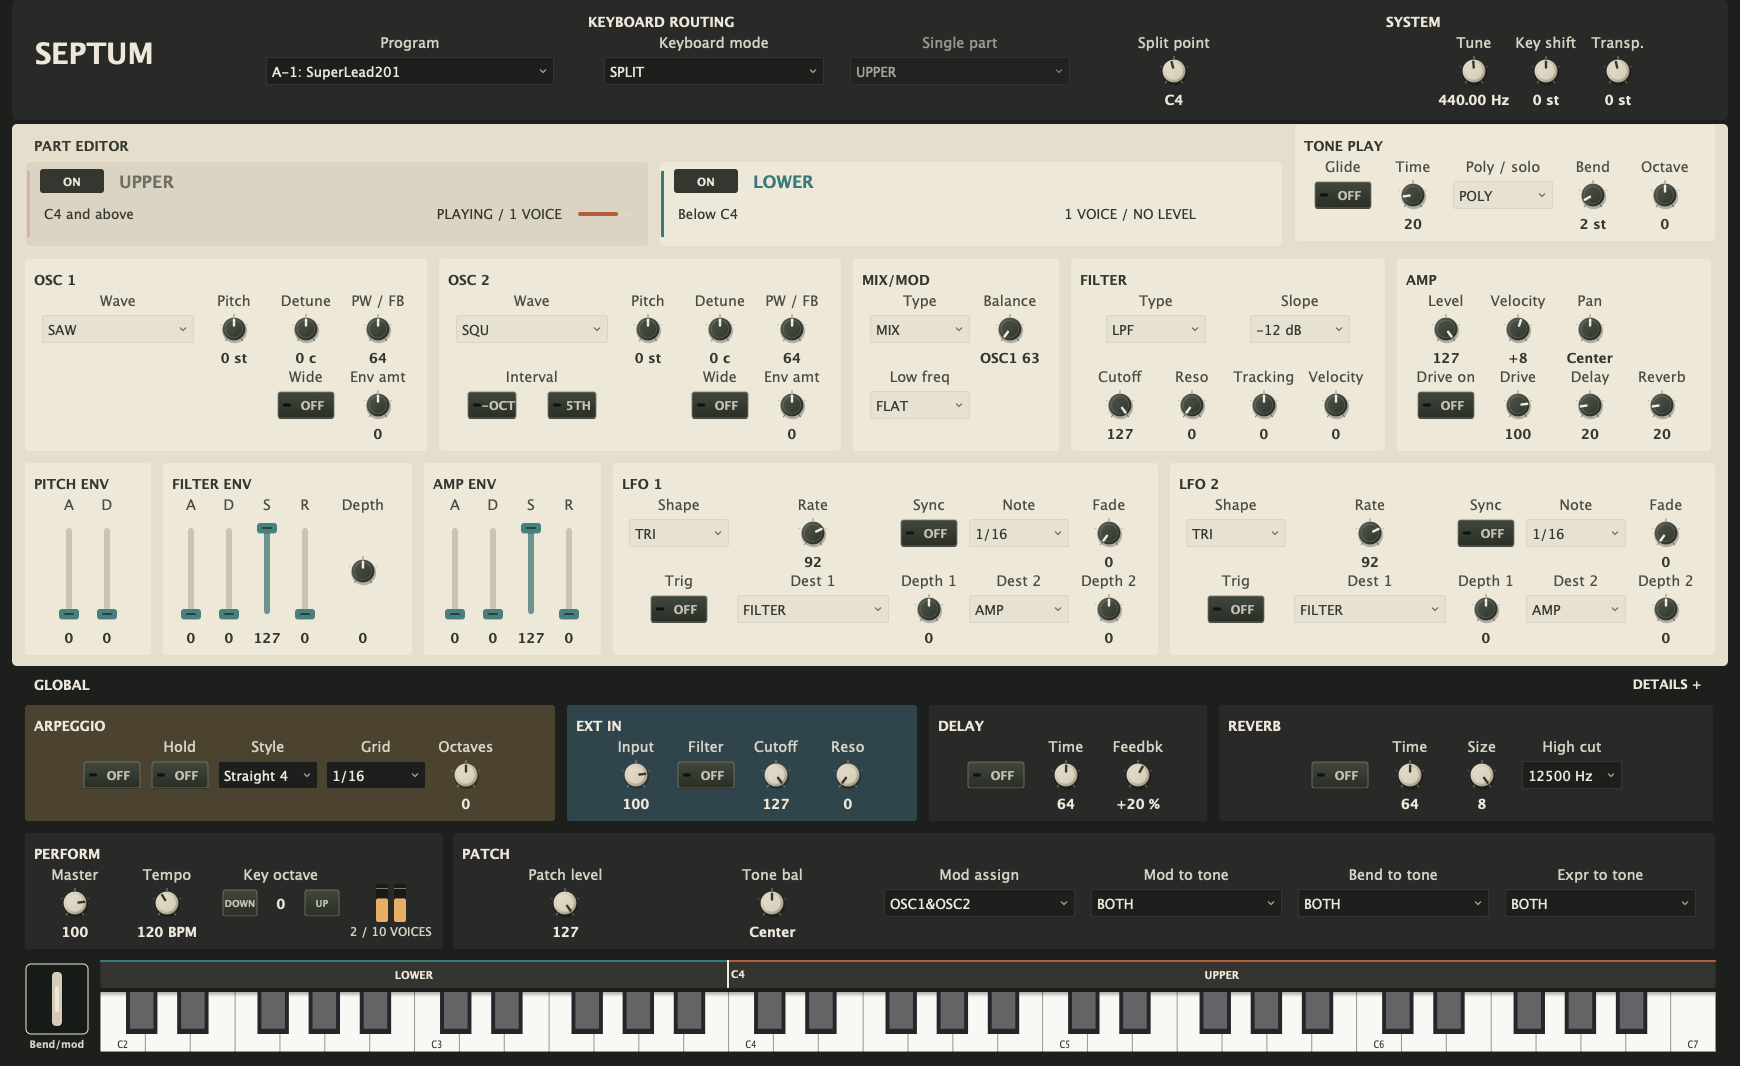
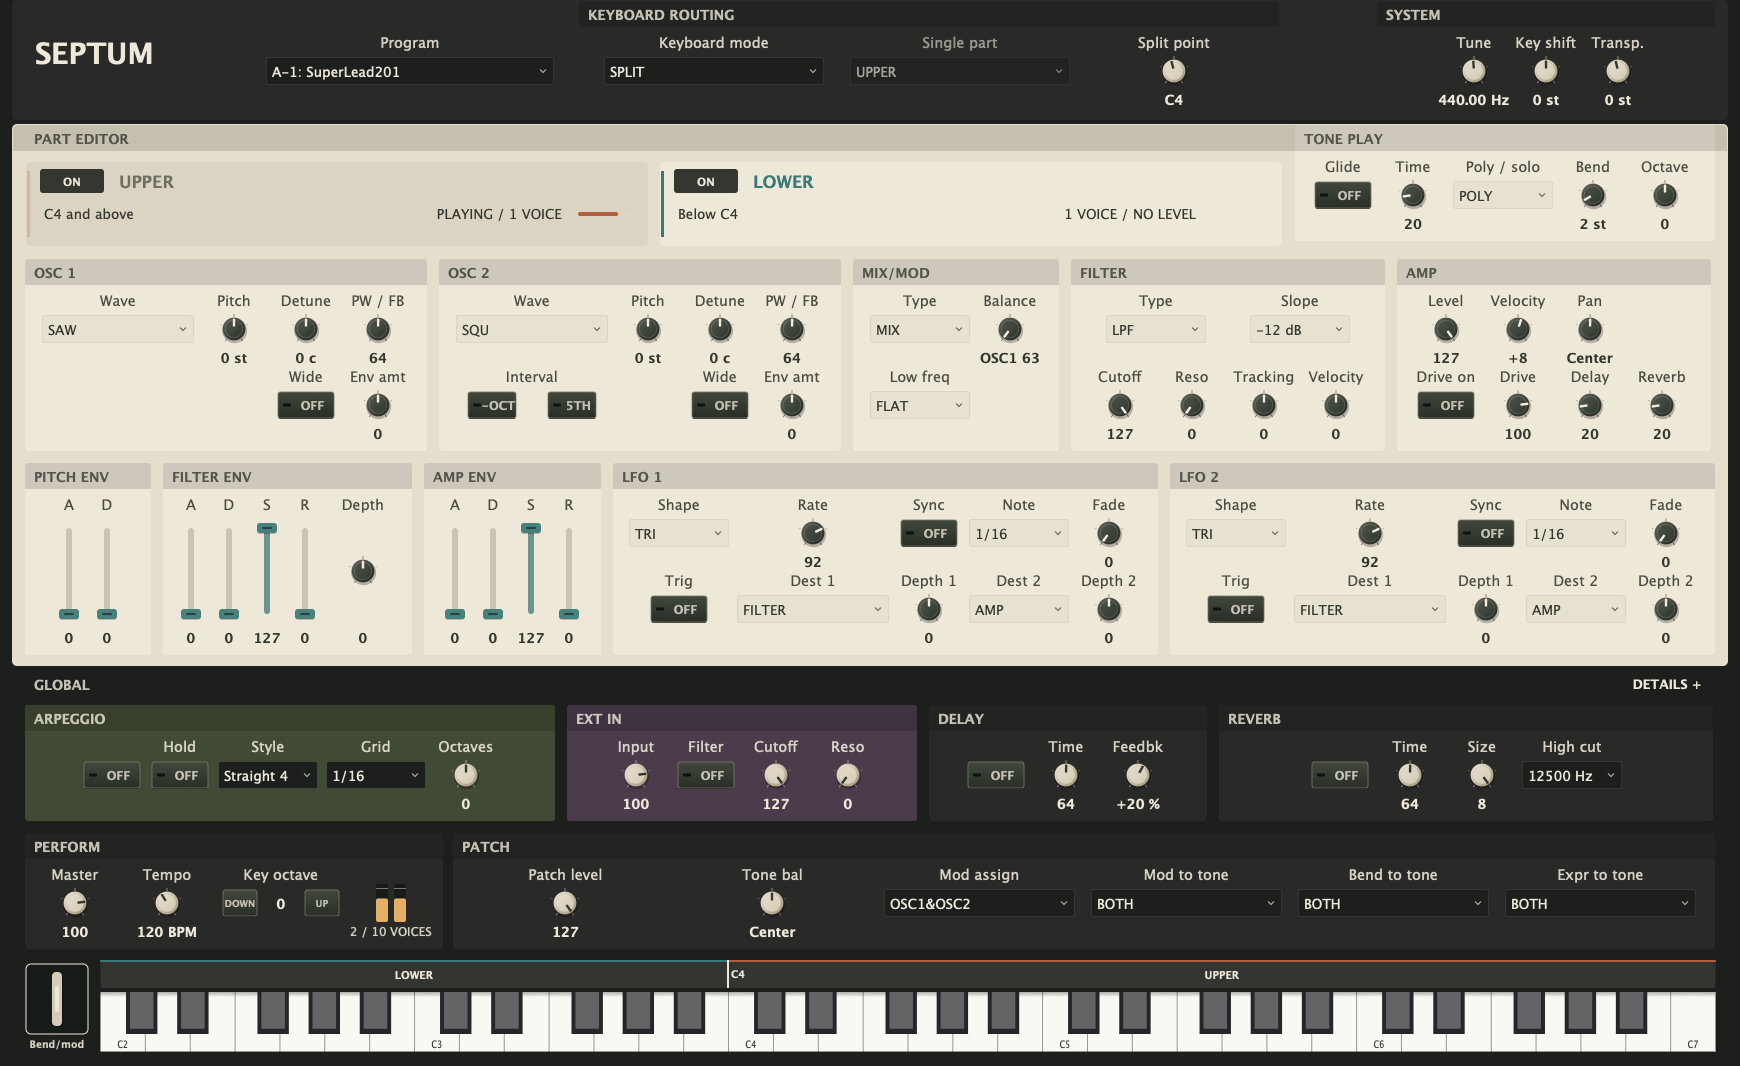
style(ui): refine panel headers and shared colors

diff --git a/Source/PluginEditor.cpp b/Source/PluginEditor.cpp
@@ -13,8 +13,8 @@ namespace colours
     const juce::Colour ink { 0xff34372f };
     const juce::Colour paper { 0xffe5decc };      // aged ivory faceplate
     const juce::Colour paperWell { 0xffeee8d9 };
-    const juce::Colour arpeggio { 0xff4b422f };     // muted ochre
-    const juce::Colour external { 0xff30454b };     // slate blue
+    const juce::Colour arpeggio { 0xff414a34 };     // olive, distinct from Upper's terracotta
+    const juce::Colour external { 0xff4b3c4c };     // plum, distinct from Lower's teal
     const juce::Colour accent { 0xffb35d3d };
     const juce::Colour knobFace { 0xffd5cbb6 };
     const juce::Colour knobPointer { 0xfff3eddf };
@@ -46,6 +46,7 @@ constexpr int toggleHeight = 28;
 
 constexpr int sectionTitleHeight = 22;
 constexpr int sectionPadding = 10;
+constexpr int panelTitleBarHeight = 26;
 constexpr int gridRowHeight = 76;      // label + control + value
 constexpr int sectionGap = 10;
 
@@ -81,6 +82,22 @@ void layoutControlCell (juce::Component& component, juce::Label& caption,
     if (value != nullptr)
         value->setBounds (valueBounds);
     component.setBounds (cell.withSizeKeepingCentre (width, height));
+}
+
+void paintPanelTitle (juce::Graphics& g, juce::Rectangle<int> bounds,
+                      juce::Colour surface, juce::Colour ink,
+                      const juce::String& title, int inset = sectionPadding,
+                      float cornerRadius = 3.0f)
+{
+    const auto bar = bounds.toFloat().reduced (1.0f).withHeight ((float) panelTitleBarHeight);
+    g.setColour (surface.darker (0.16f));
+    g.fillRoundedRectangle (bar, cornerRadius);
+    // Keep the upper panel corners rounded and the lower edge straight.
+    g.fillRect (bar.withTrimmedTop (cornerRadius));
+    g.setColour (ink.withAlpha (0.8f));
+    g.setFont (juce::Font (juce::FontOptions (16.0f, juce::Font::bold)));
+    g.drawText (title, bounds.withY ((int) bar.getY()).withHeight (panelTitleBarHeight)
+                            .reduced (inset, 0), juce::Justification::centredLeft);
 }
 } // namespace
 
@@ -1878,10 +1895,9 @@ void SeptumAudioProcessorEditor::paintPanel (juce::Graphics& g)
         editorWidth - 24.0f, (float) (modulationTop + bandHeight + 10 - partTop));
     g.setColour (colours::paper);
     g.fillRoundedRectangle (partArea, 5.0f);
-    g.setColour (colours::ink);
-    g.setFont (juce::Font (juce::FontOptions (16.0f, juce::Font::bold)));
-    g.drawText ("PART EDITOR", 24 + sectionPadding, partTop + 10, 150, 22, juce::Justification::centredLeft);
-    g.setColour (colours::frame);
+    paintPanelTitle (g, partArea.toNearestInt(), colours::paper, colours::ink,
+                     "PART EDITOR", 12 + sectionPadding, 5.0f);
+    g.setColour (colours::frame.withAlpha (0.8f));
     g.setFont (juce::Font (juce::FontOptions (16.0f, juce::Font::bold)));
     g.drawText ("GLOBAL", 24 + sectionPadding, sharedTop - 32, 84, 24, juce::Justification::centredLeft);
 
@@ -1893,16 +1909,13 @@ void SeptumAudioProcessorEditor::paintPanel (juce::Graphics& g)
         if (area.isEmpty())
             continue;
         const bool perTone = section->scope == Scope::PerTone;
-        g.setColour (perTone ? colours::paperWell
-                     : section->title == "ARPEGGIO" ? colours::arpeggio
-                     : section->title == "EXT IN" ? colours::external : colours::body);
+        const auto surface = perTone ? colours::paperWell
+                           : section->title == "ARPEGGIO" ? colours::arpeggio
+                           : section->title == "EXT IN" ? colours::external : colours::body;
+        g.setColour (surface);
         g.fillRoundedRectangle (area, 3.0f);
-        const auto title = section->bounds.reduced (sectionPadding).withHeight (
-            sectionTitleHeight);
         const auto ink = perTone ? colours::ink : colours::frame;
-        g.setColour (ink.withAlpha (perTone && ! isEditedPartEnabled() ? 0.55f : 1.0f));
-        g.setFont (juce::Font (juce::FontOptions (16.0f, juce::Font::bold)));
-        g.drawText (section->title, title, juce::Justification::centredLeft);
+        paintPanelTitle (g, section->bounds, surface, ink, section->title);
     }
     paintPartTabs (g);
 

diff --git a/README.md b/README.md
@@ -117,8 +117,9 @@ render code. The open questions are listed under [Known gaps](#known-gaps).
 
 The SH-201-inspired panel combines a warm charcoal chassis, ivory part panels,
 hardware-style knobs and illuminated switches. Larger labels, aligned value
-rows and generous padding keep controls readable. Space separates the modules,
-with no divider rules beneath their titles. The signal
+rows and generous padding keep controls readable. Subtly darker title bars
+separate panel headings from their controls, with the same silkscreen lettering
+at 80% opacity. Space separates the modules without divider rules. The signal
 path reads left to right: OSC 1 + OSC 2 → MIX/MOD → FILTER → AMP, with envelopes
 and LFOs below. **TONE PLAY** sits beside the part selector above these panels,
 keeping portamento, glide time, voice mode, bend range and part octave with the
@@ -126,8 +127,9 @@ part they edit. Terracotta identifies **UPPER** and teal identifies **LOWER**
 in the selection indicators and envelope sliders.
 
 Shared controls keep fixed colours when the edit selection changes:
-**ARPEGGIO** has an ochre panel, **EXT IN** has a slate blue panel, and the
-remaining shared sections use charcoal. Program selection, keyboard routing
+**ARPEGGIO** has an olive panel, **EXT IN** has a muted plum panel, and the
+remaining shared sections use charcoal. These hues are distinct from the
+terracotta and teal part accents. Program selection, keyboard routing
 and system settings occupy the shared header. Arpeggio, external input,
 delay and reverb sit below the part panels;
 **PERFORM** and **PATCH** follow beneath them. PERFORM holds master volume,
